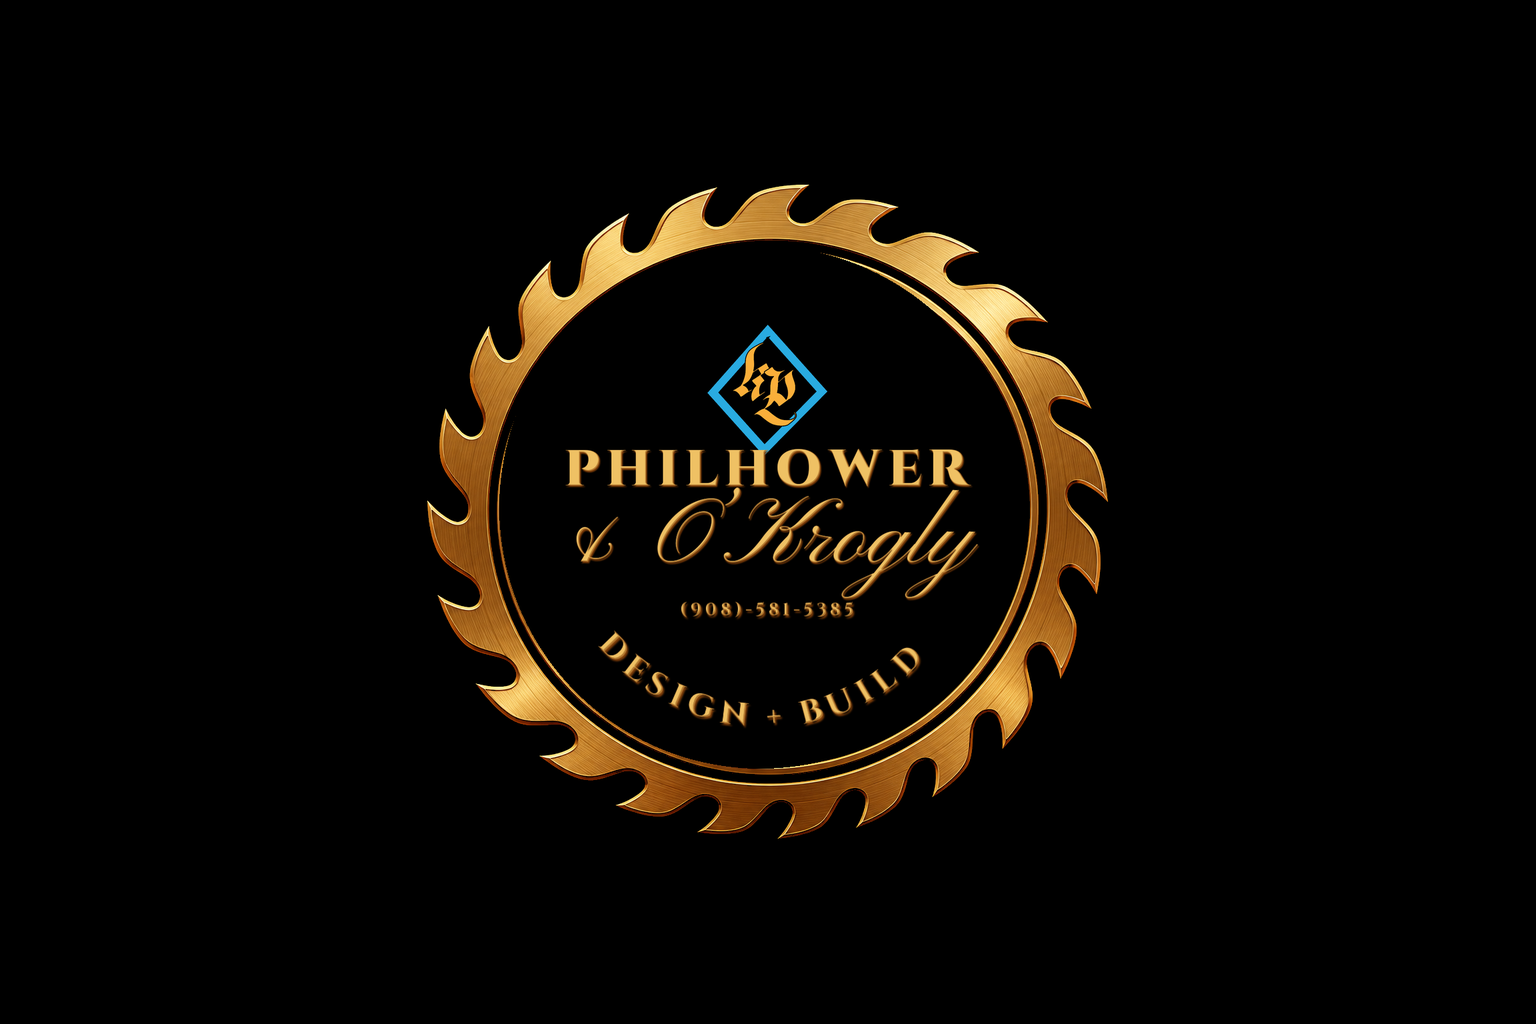
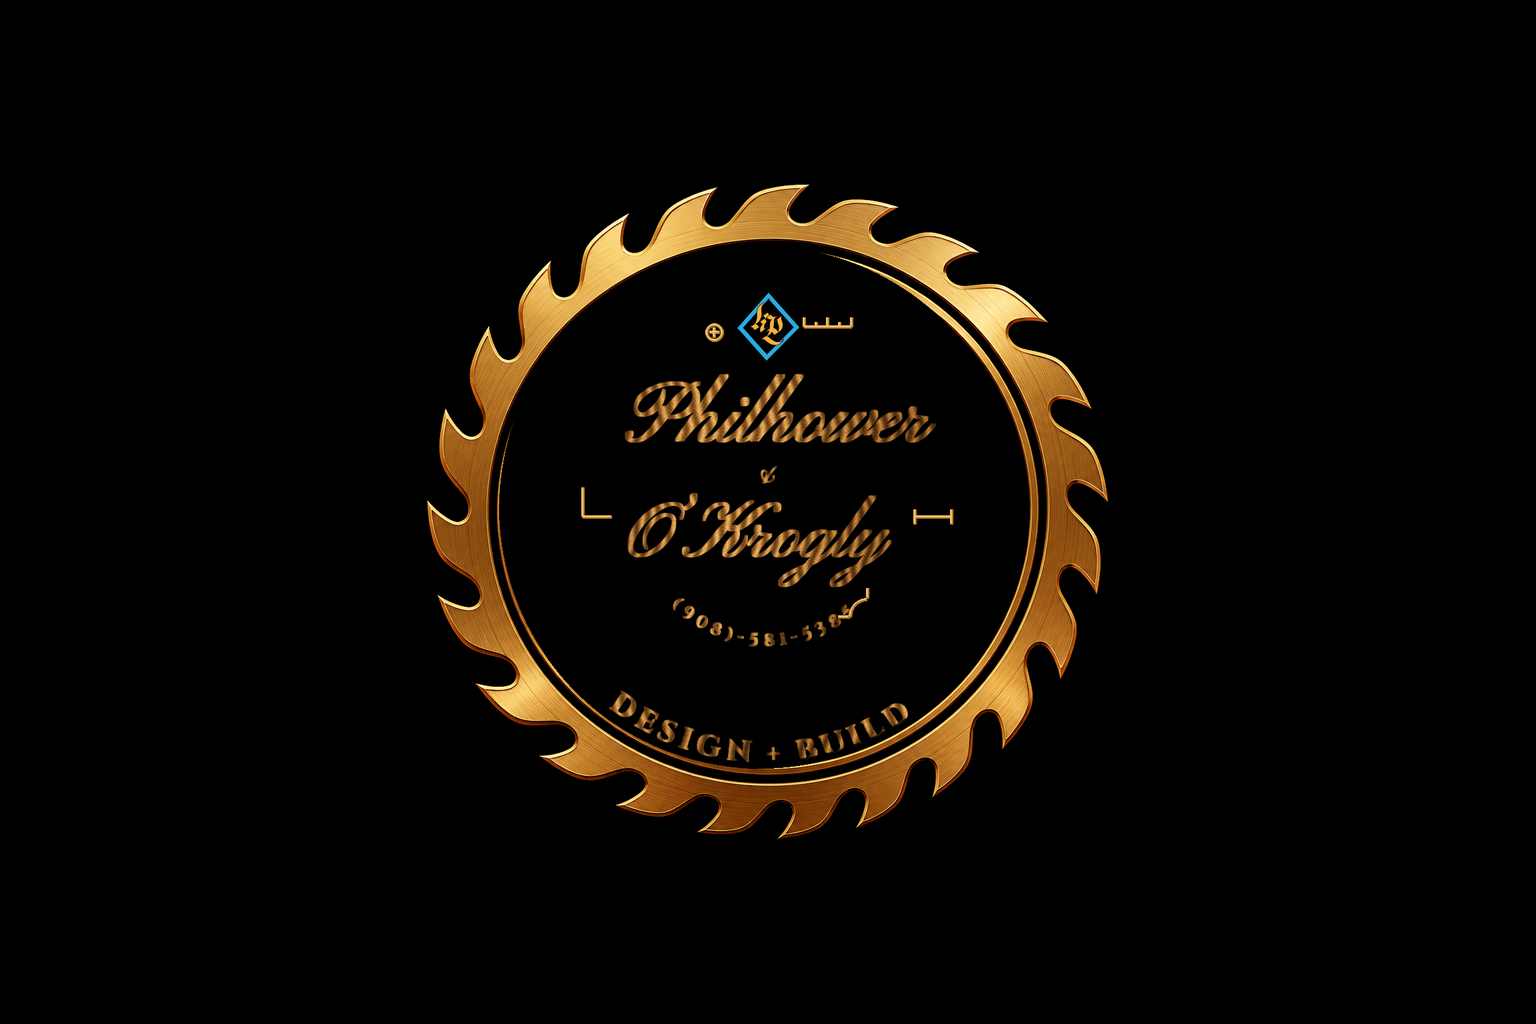
Add five measure marks to the Philhower & O’Krogly lockup.
Both names stay in the same script. Five quiet drafting marks sit in the black field. Theme 1.0.17.

Changed region(s): [[0.3438, 0.2812, 0.625, 0.625], [0.375, 0.625, 0.5938, 0.75]]

diff --git a/dphilhower-studio-wp/preview/work/philhower-okrogly/index.html b/dphilhower-studio-wp/preview/work/philhower-okrogly/index.html
@@ -4,7 +4,7 @@
   <meta charset="utf-8">
   <meta name="viewport" content="width=device-width, initial-scale=1">
   <title>Philhower &amp; O’Krogly — D Philhower Studio</title>
-  <meta name="description" content="Philhower &amp; O’Krogly Design + Build by D Philhower Studio: Hills saw blade, blue diamond, two Hills-adjacent fonts, polo, van, yard sign, and magnet.">
+  <meta name="description" content="Philhower &amp; O’Krogly Design + Build by D Philhower Studio: Hills saw blade, blue diamond, matching script names, five measure marks, polo, van, yard sign, and magnet.">
   <link rel="icon" href="../../img/favicon.svg" type="image/svg+xml">
   <link rel="preconnect" href="https://fonts.googleapis.com">
   <link rel="preconnect" href="https://fonts.gstatic.com" crossorigin>
@@ -31,7 +31,7 @@
       <p>Design + Build</p>
     </header>
     <div class="case-hero">
-      <img src="../../img/pok-hero.png" alt="Philhower &amp; O’Krogly lockup: Hills saw blade, blue diamond, PHILHOWER in inscriptional serif, O’Krogly in script, DESIGN + BUILD on the ring, (908)-581-5385" width="1536" height="1024">
+      <img src="../../img/pok-hero.png" alt="Philhower &amp; O’Krogly lockup: Hills saw blade, blue diamond, both names in the same script, five measure marks, DESIGN + BUILD on the ring, (908)-581-5385" width="1536" height="1024">
     </div>
     <article class="case-body">
       <ul class="case-meta">
@@ -41,18 +41,18 @@
         <li><strong>Place</strong><br>Northern New Jersey</li>
       </ul>
       <div class="entry-content">
-        <p>The Hills saw blade is the tool. Blue stays the diamond from the 2025 stitch. PHILHOWER sits in an inscriptional serif next to SERVICE, not the same cut. O’Krogly sits in a roundhand next to The Hills, not the same script. DESIGN + BUILD runs the inner ring. (908)-581-5385 stays in the mark.</p>
+        <p>The Hills saw blade is the tool. Blue stays the diamond from the 2025 stitch. Both names sit in the same script. Five quiet measure marks — registration, scale, square, dimension, radius. Wood letters, bronze blade. DESIGN + BUILD runs the inner ring. (908)-581-5385 stays in the mark.</p>
         <p>One lockup. Polo, van, yard, card, fridge. Black field so gold reads. Blue is only the diamond.</p>
       </div>
     </article>
     <section class="brand-kit">
       <p class="section-label">Print system</p>
       <h2 class="section-title">One lockup, five scales</h2>
-      <p class="section-copy">The blade, the blue diamond, two fonts. Same file on the shirt, the van, the lawn, the card, and the fridge.</p>
+      <p class="section-copy">The blade, the blue diamond, one script, five measure marks. Same file on the shirt, the van, the lawn, the card, and the fridge.</p>
       <div class="print-system">
         <figure>
           <img src="../../img/pok-print-shirt.png" alt="Black polo with the Philhower &amp; O’Krogly saw-blade lockup centered on the chest" width="1536" height="1024">
-          <figcaption><strong>Polo</strong> Center chest. Blue diamond. PHILHOWER, O’Krogly, DESIGN + BUILD in the Hills blade.</figcaption>
+          <figcaption><strong>Polo</strong> Center chest. Blue diamond. Same script for both names. Five measure marks. DESIGN + BUILD in the Hills blade.</figcaption>
         </figure>
         <figure>
           <img src="../../img/pok-print-van.png" alt="Matte black van with the Philhower &amp; O’Krogly saw-blade lockup on the side" width="1536" height="1024">
@@ -64,7 +64,7 @@
         </figure>
         <figure>
           <img src="../../img/pok-print-card.png" alt="Black business cards with the Philhower &amp; O’Krogly saw-blade lockup" width="1536" height="1024">
-          <figcaption><strong>Cards</strong> Black stock. Blade, blue diamond, two fonts, and the 908 number already in the mark.</figcaption>
+          <figcaption><strong>Cards</strong> Black stock. Blade, blue diamond, matching script, five measure marks, and the 908 number already in the mark.</figcaption>
         </figure>
         <figure>
           <img src="../../img/pok-print-magnet.png" alt="Fridge magnet with the Philhower &amp; O’Krogly saw-blade lockup" width="1536" height="1024">

diff --git a/dphilhower-studio-wp/theme/dphilhower-studio/style.css b/dphilhower-studio-wp/theme/dphilhower-studio/style.css
@@ -4,7 +4,7 @@ Theme URI: https://dphilhower.com
 Author: D Philhower Studio
 Author URI: https://dphilhower.com
 Description: Custom graphic design studio theme for D Philhower Studio at dphilhower.com — portfolio, services, about, and project inquiries. Activate the theme to load demo pages and work samples.
-Version: 1.0.16
+Version: 1.0.17
 Requires at least: 6.4
 Tested up to: 6.8
 Requires PHP: 7.4

diff --git a/dphilhower-studio-wp/theme/dphilhower-studio/inc/brand-kits.php b/dphilhower-studio-wp/theme/dphilhower-studio/inc/brand-kits.php
@@ -289,13 +289,13 @@ function dps_brand_kits() {
 		'philhower-okrogly'        => array(
 			'label'  => __( 'Print system', 'dphilhower-studio' ),
 			'title'  => __( 'One lockup, five scales', 'dphilhower-studio' ),
-			'intro'  => __( 'The Hills saw blade is the tool. Blue stays the diamond. PHILHOWER is an inscriptional serif next to SERVICE; O’Krogly is a roundhand next to The Hills — not the same cuts. DESIGN + BUILD runs the ring. Polo, van, yard, card, fridge — one lockup.', 'dphilhower-studio' ),
+			'intro'  => __( 'The Hills saw blade is the tool. Blue stays the diamond. Both names sit in the same script. Five quiet measure marks. Wood letters, bronze blade. DESIGN + BUILD runs the ring. Polo, van, yard, card, fridge — one lockup.', 'dphilhower-studio' ),
 			'pieces' => array(
 				array(
 					'file'    => 'pok-print-shirt.png',
 					'alt'     => __( 'Black polo with the Philhower & O’Krogly saw-blade lockup centered on the chest', 'dphilhower-studio' ),
 					'heading' => __( 'Polo', 'dphilhower-studio' ),
-					'story'   => __( 'Center chest. Blue diamond. PHILHOWER, O’Krogly, DESIGN + BUILD in the Hills blade.', 'dphilhower-studio' ),
+					'story'   => __( 'Center chest. Blue diamond. Same script for both names. Five measure marks. DESIGN + BUILD in the Hills blade.', 'dphilhower-studio' ),
 				),
 				array(
 					'file'    => 'pok-print-van.png',
@@ -313,7 +313,7 @@ function dps_brand_kits() {
 					'file'    => 'pok-print-card.png',
 					'alt'     => __( 'Black business cards with the Philhower & O’Krogly saw-blade lockup', 'dphilhower-studio' ),
 					'heading' => __( 'Cards', 'dphilhower-studio' ),
-					'story'   => __( 'Black stock. Blade, blue diamond, two fonts, and the 908 number already in the mark.', 'dphilhower-studio' ),
+					'story'   => __( 'Black stock. Blade, blue diamond, matching script, five measure marks, and the 908 number already in the mark.', 'dphilhower-studio' ),
 				),
 				array(
 					'file'    => 'pok-print-magnet.png',

diff --git a/dphilhower-studio-wp/theme/dphilhower-studio/inc/setup-content.php b/dphilhower-studio-wp/theme/dphilhower-studio/inc/setup-content.php
@@ -324,7 +324,7 @@ function dps_seed_demo_content( $force = false ) {
 			'services' => 'Identity · embroidery · vehicle · signage',
 			'year'     => '2025',
 			'location' => 'Northern New Jersey',
-			'content'  => '<p>The Hills saw blade is the tool. Blue stays the diamond from the 2025 stitch. PHILHOWER sits in an inscriptional serif next to SERVICE, not the same cut. O’Krogly sits in a roundhand next to The Hills, not the same script. DESIGN + BUILD runs the inner ring. (908)-581-5385 stays in the mark.</p><p>One lockup. Polo, van, yard, card, fridge. Black field so gold reads. Blue is only the diamond.</p>',
+			'content'  => '<p>The Hills saw blade is the tool. Blue stays the diamond from the 2025 stitch. Both names sit in the same script. Five quiet measure marks — registration, scale, square, dimension, radius. Wood letters, bronze blade. DESIGN + BUILD runs the inner ring. (908)-581-5385 stays in the mark.</p><p>One lockup. Polo, van, yard, card, fridge. Black field so gold reads. Blue is only the diamond.</p>',
 		),
 		array(
 			'slug'     => 'cafe-robust',
@@ -459,7 +459,7 @@ function dps_seed_demo_content( $force = false ) {
 	flush_rewrite_rules();
 
 	update_option( 'dps_demo_seeded', DPS_VERSION );
-	update_option( 'dps_images_version', 'brands-print-9' );
+	update_option( 'dps_images_version', 'brands-print-10' );
 	return true;
 }
 

diff --git a/dphilhower-studio-wp/theme/dphilhower-studio/functions.php b/dphilhower-studio-wp/theme/dphilhower-studio/functions.php
@@ -9,7 +9,7 @@ if ( ! defined( 'ABSPATH' ) ) {
 	exit;
 }
 
-define( 'DPS_VERSION', '1.0.16' );
+define( 'DPS_VERSION', '1.0.17' );
 define( 'DPS_DIR', get_template_directory() );
 define( 'DPS_URI', get_template_directory_uri() );
 
@@ -164,14 +164,14 @@ function dps_maybe_upgrade_images() {
 	if ( 'dphilhower-studio' !== get_stylesheet() ) {
 		return;
 	}
-	if ( get_option( 'dps_images_version' ) === 'brands-print-9' ) {
+	if ( get_option( 'dps_images_version' ) === 'brands-print-10' ) {
 		return;
 	}
 	if ( ! get_option( 'dps_demo_seeded' ) ) {
 		return;
 	}
 	dps_seed_demo_content( true );
-	update_option( 'dps_images_version', 'brands-print-9' );
+	update_option( 'dps_images_version', 'brands-print-10' );
 }
 
 /**
